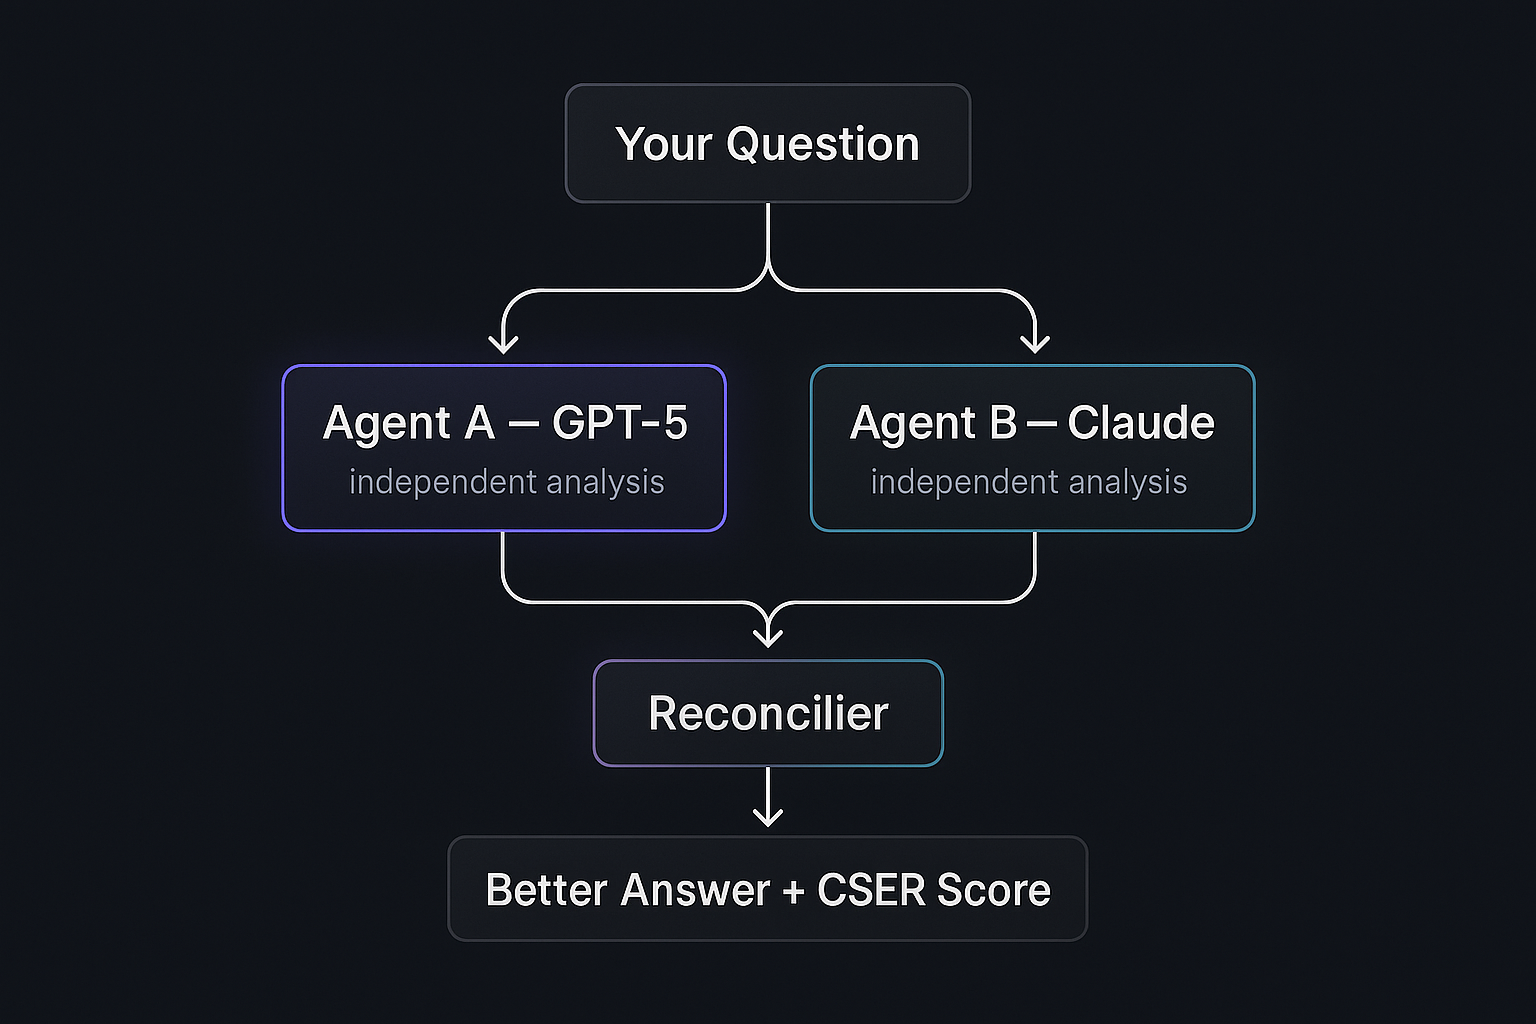
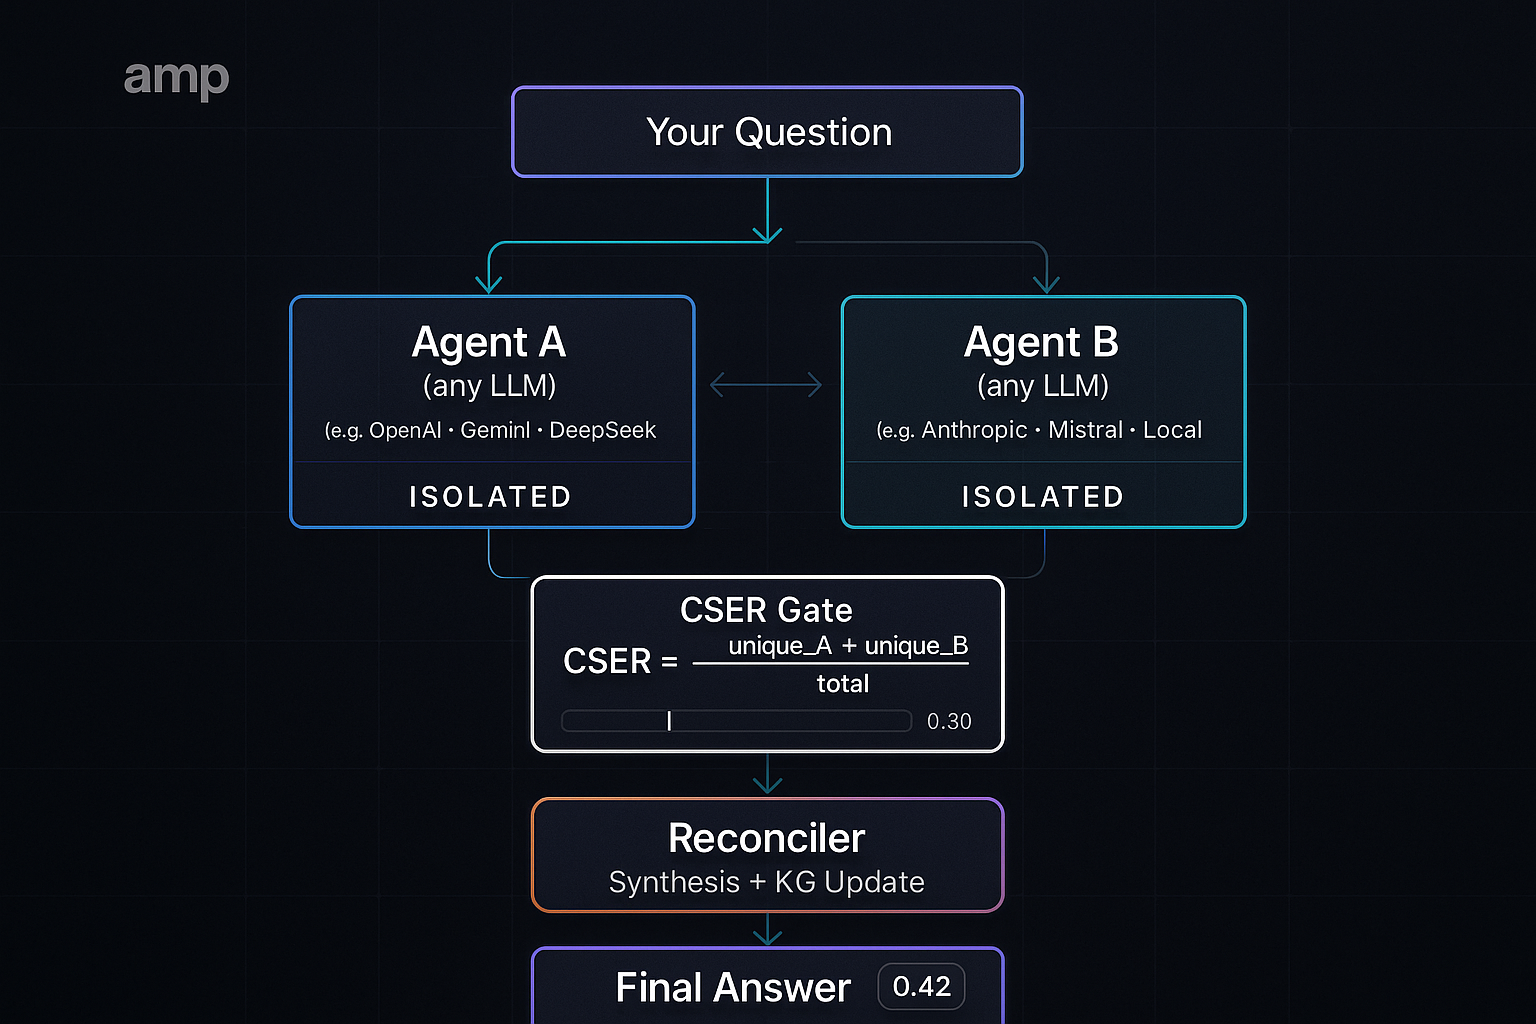
docs: replace '9 domains' with unbounded domain pool language
README.md:
- '9 domains in total' → '9 built-in presets + unlimited dynamic domains'
- Auto-persona step: mention dynamic domain creation
- Internals pipeline: 'Domain pool is unbounded'

README.ko.md: 9개 기본 제공 + 동적 무제한
README.ja.md: 9プリセット + 無制限
README.zh.md: 9内置预设 + 无限制
README.es.md: 9 dominios integrados + pool ilimitado

docs/ARCHITECTURE.md:
- 9 static → 9 built-in presets (×2)
- Domain pool is unbounded + growth description

docs/assets/architecture.png:
- Regenerated: Agent A (any LLM) + Agent B (any LLM)
  e.g., OpenAI · Gemini · DeepSeek / Anthropic · Mistral · Local
  (was incorrectly: GPT-5 model vs Claude vendor — inconsistent)

diff --git a/README.md b/README.md
@@ -58,7 +58,7 @@ GPT-5 + GPT-5 with different prompts will produce high lexical overlap. The trai
 | `career` | Career optimization strategist — data-driven, risk-min | Disruptive coach — nonlinear leaps, reject comfort | 0.3 / 1.1 |
 | `ethics` | Deontological ethicist — principle-based, absolute | Utilitarian pragmatist — outcome-driven, contextual | 0.3 / 1.1 |
 
-9 domains in total. Cross-vendor pairs (GPT × Claude) skip this — their divergence is structural.
+9 built-in preset domains (+ unlimited dynamic domains auto-created on demand). Cross-vendor pairs (GPT × Claude) skip this — their divergence is structural.
 
 ### Problem 3 — "Better answer" is unverifiable without measurement
 
@@ -95,7 +95,7 @@ This isn't an incidental feature. It's why amp has to exist as open source.
 
 ### 2-round — parallel independent analysis (default)
 
-1. **Auto-persona:** amp detects the query domain (9 categories, LLM fallback) and assigns contrasting expert personas to each agent.
+1. **Auto-persona:** amp detects the query domain — 9 built-in presets + unlimited dynamic domains (auto-created via LLM and cached) — and assigns contrasting expert personas to each agent.
 2. **Parallel execution:** Agent A and B run simultaneously with no cross-visibility.
 3. **CSER measurement:** unique and shared insights are computed via Jaccard similarity on extracted idea units.
 4. **Gate:** if CSER < θ, auto-escalate to 4-round.
@@ -245,7 +245,7 @@ CSER = 0.0 → both agents produced identical insights (echo chamber).
 ```
 Query
   │
-  ├─ 1. Static keyword match (O(1), 9 preset domains)  ──────► preset personas
+  ├─ 1. Static keyword match (O(1), 9 built-in presets)  ──────► preset personas
   │
   ├─ 2. DomainRegistry.find()  — cosine similarity ≥ 0.78   ──► cached personas
   │        (SQLite + text-embedding-3-small)
@@ -255,7 +255,7 @@ Query
              + dedup merge check (≥ 0.75)
 ```
 
-The registry grows with every unknown query. `amp domains` lists all learned domains.
+**Domain pool is unbounded.** The registry grows automatically with every unknown query. `amp domains` lists all learned domains.
 
 ### Academic Foundations
 

diff --git a/docs/ARCHITECTURE.md b/docs/ARCHITECTURE.md
@@ -27,7 +27,7 @@ User query
 ┌───────────────────────────────────────────────────────┐
 │  Auto-Persona Engine                                  │
 │  ┌────────────────────────────────────────────────┐  │
-│  │ 1. Static keyword match (9 preset domains)     │  │
+│  │ 1. Static keyword match (9 built-in presets)   │  │
 │  │ 2. DomainRegistry.find()  (embedding cache)    │  │
 │  │ 3. DomainRegistry.create() (LLM + persist)     │  │
 │  └────────────────────────────────────────────────┘  │
@@ -197,7 +197,7 @@ Contrasting personas are the primary mechanism for inducing cognitive diversity 
 
 ```
 Stage 1: Static keyword matching (O(1))
-  ─ 9 preset domains: career, relationship, business, investment,
+  ─ 9 built-in preset domains: career, relationship, business, investment,
     legal_contract, health, ethics, creative, parenting
   ─ Keyword lists in DOMAIN_KEYWORDS dict
   ─ ~70% of real-world queries resolved here
@@ -240,7 +240,7 @@ Cross-vendor pairs (GPT × Claude) skip this — their structural divergence (di
 
 ### Motivation
 
-The 9 static preset domains cover ~70% of real queries. Queries outside this set previously fell back to a generic "default" persona pair — losing all domain-specificity.
+The 9 built-in preset domains cover ~70% of real queries. The remaining 30% now go through the dynamic registry — meaning the total domain pool is **unbounded** and grows with every novel query type.
 
 ### Architecture
 

diff --git a/README.ja.md b/README.ja.md
@@ -159,7 +159,7 @@ cser = (len(unique_a) + len(unique_b)) / len(total_ideas)
 
 ### 動的ドメインレジストリ
 
-9つの静的ドメイン（キャリア、投資など）でカバーできないクエリは、LLMが新しいドメインを自動生成してSQLiteに保存します。`amp domains`で学習済みドメイン一覧を確認できます。
+9つの組み込みプリセット以外のクエリは、LLMが新しいドメインを自動生成してSQLiteに保存します（ドメイン数は無制限）。`amp domains`で学習済みドメイン一覧を確認できます。
 
 ---
 

diff --git a/README.es.md b/README.es.md
@@ -159,7 +159,7 @@ cser = (len(unique_a) + len(unique_b)) / len(total_ideas)
 
 ### Registro de Dominios Dinámico
 
-Para consultas fuera de los 9 dominios estáticos (carrera, inversión, etc.), el LLM crea automáticamente un nuevo dominio y lo guarda en SQLite. Usa `amp domains` para ver todos los dominios aprendidos.
+Para consultas fuera de los 9 dominios integrados, el LLM crea automáticamente un nuevo dominio y lo guarda en SQLite (pool ilimitado). Usa `amp domains` para ver todos los dominios aprendidos.
 
 ---
 

diff --git a/README.zh.md b/README.zh.md
@@ -159,7 +159,7 @@ cser = (len(unique_a) + len(unique_b)) / len(total_ideas)
 
 ### 动态领域注册表
 
-针对 9 个静态领域（职业、投资等）无法覆盖的查询，LLM 会自动创建新领域并保存到 SQLite。使用 `amp domains` 查看已学习的领域列表。
+针对 9 个内置预设以外的查询，LLM 会自动创建新领域并保存到 SQLite（领域数量无限制）。使用 `amp domains` 查看已学习的领域列表。
 
 ---
 
